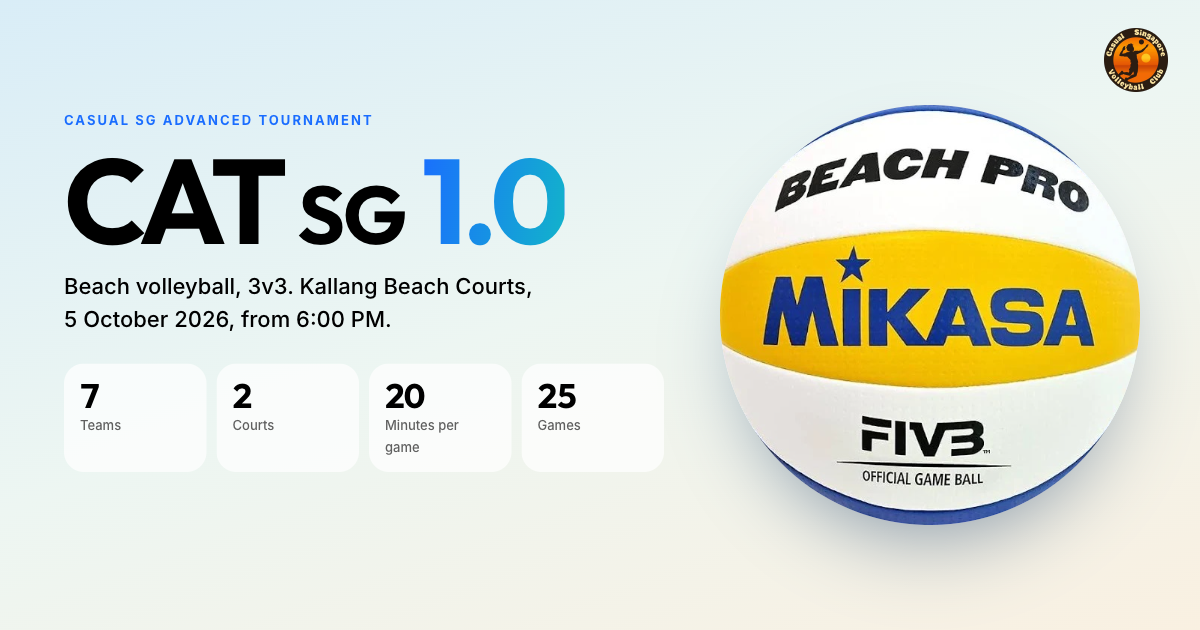
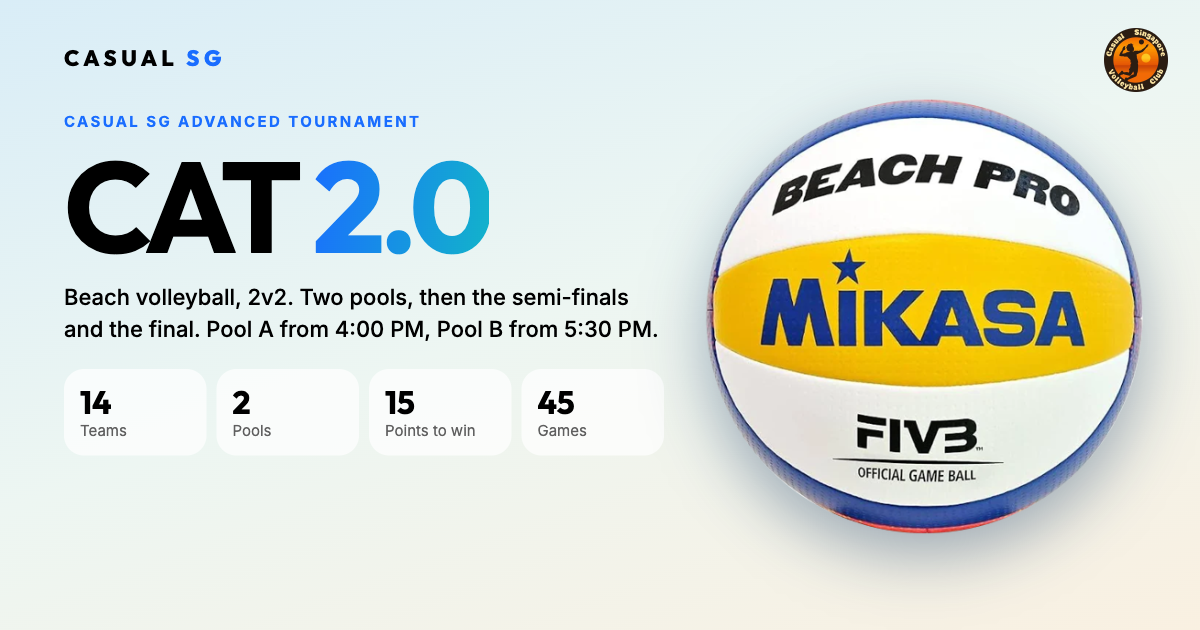
Update link preview image to CAT 2.0

diff --git a/index.html b/index.html
@@ -8,10 +8,10 @@
 <meta name="theme-color" content="#ffffff" media="(prefers-color-scheme: light)">
 <meta name="theme-color" content="#000000" media="(prefers-color-scheme: dark)">
 <meta property="og:type" content="website">
-<meta property="og:title" content="CAT 2.0 · Live scores">
+<meta property="og:title" content="Casual SG · CAT 2.0 live scores">
 <meta property="og:description" content="Casual SG Advanced Tournament. 2v2 beach volleyball, 14 teams in two pools. Pool A from 4:00 PM, Pool B from 5:30 PM. Schedule, live scores, standings, knockouts and rules.">
 <meta property="og:url" content="https://mikachufm2202.github.io/tourney-tracker/">
-<meta property="og:image" content="https://mikachufm2202.github.io/tourney-tracker/og.png">
+<meta property="og:image" content="https://mikachufm2202.github.io/tourney-tracker/og.png?v=2">
 <meta property="og:image:width" content="1200">
 <meta property="og:image:height" content="630">
 <meta name="twitter:card" content="summary_large_image">
